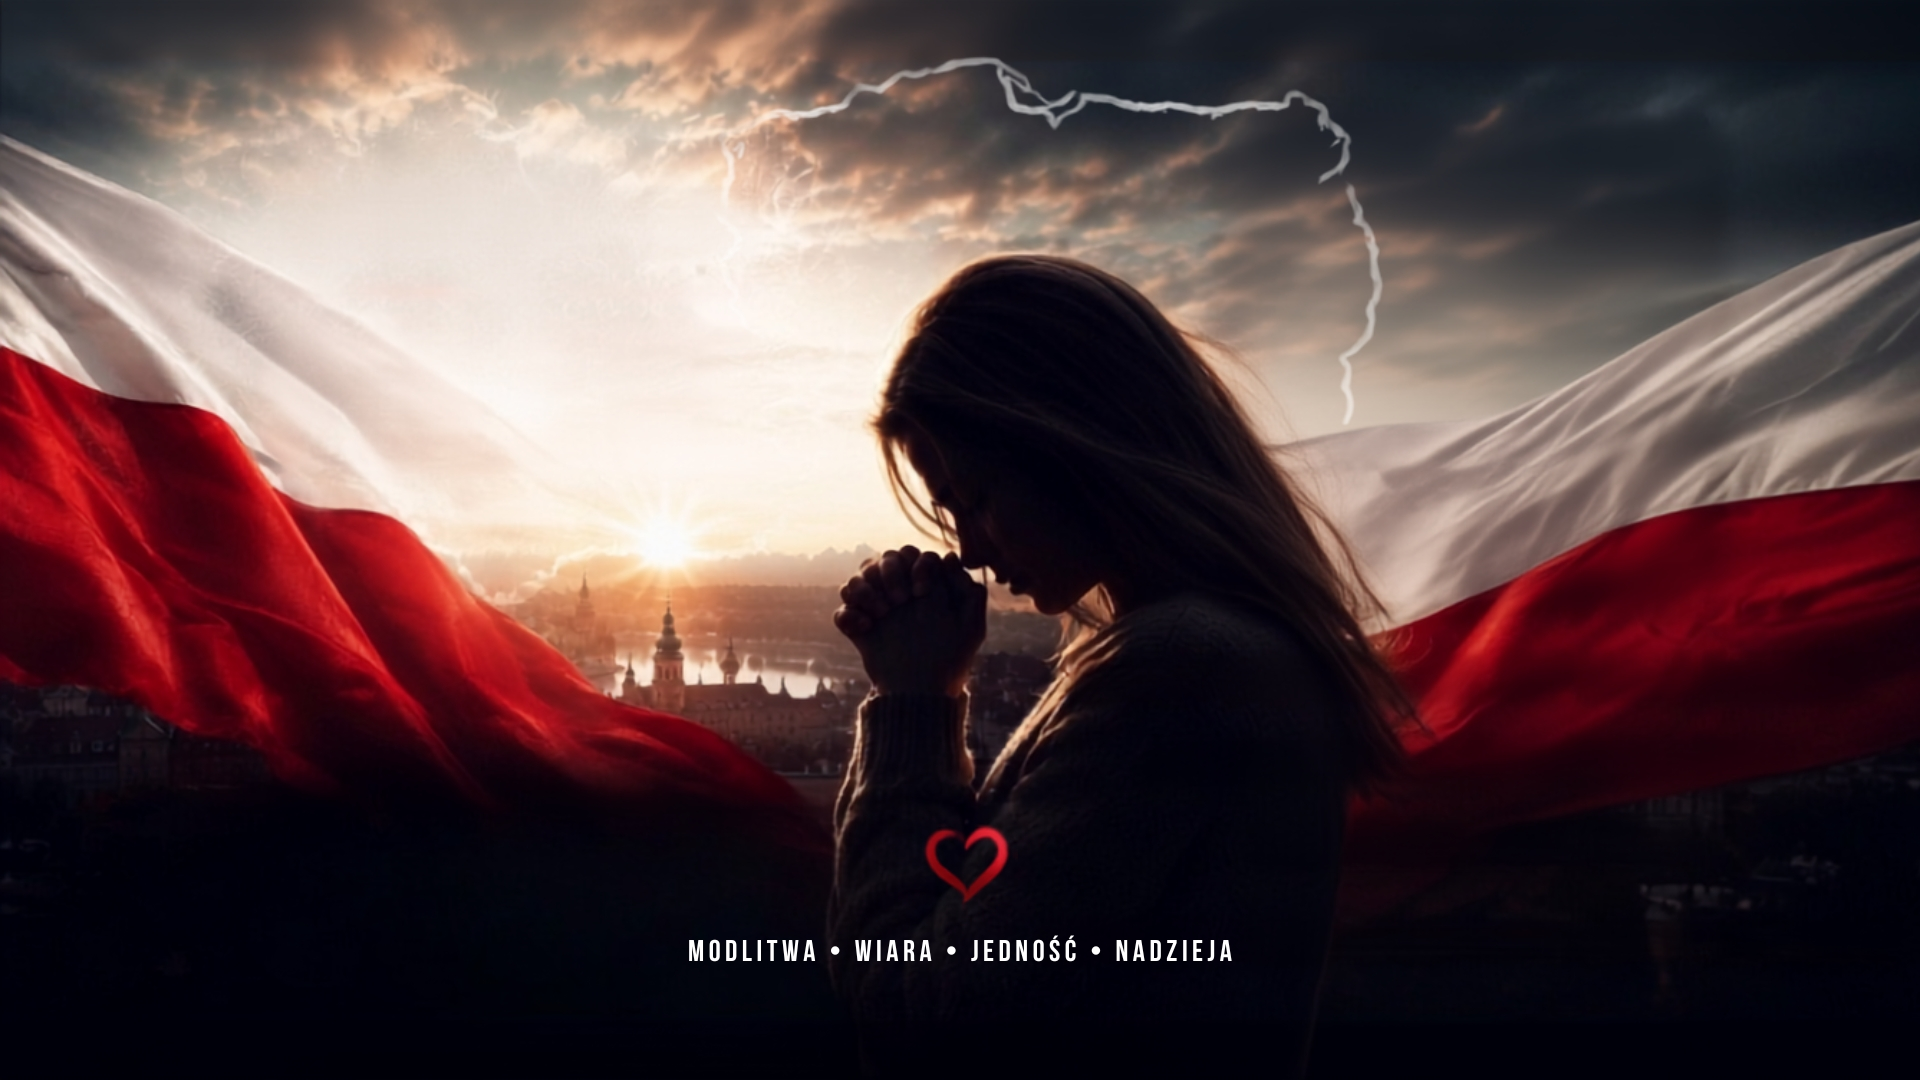
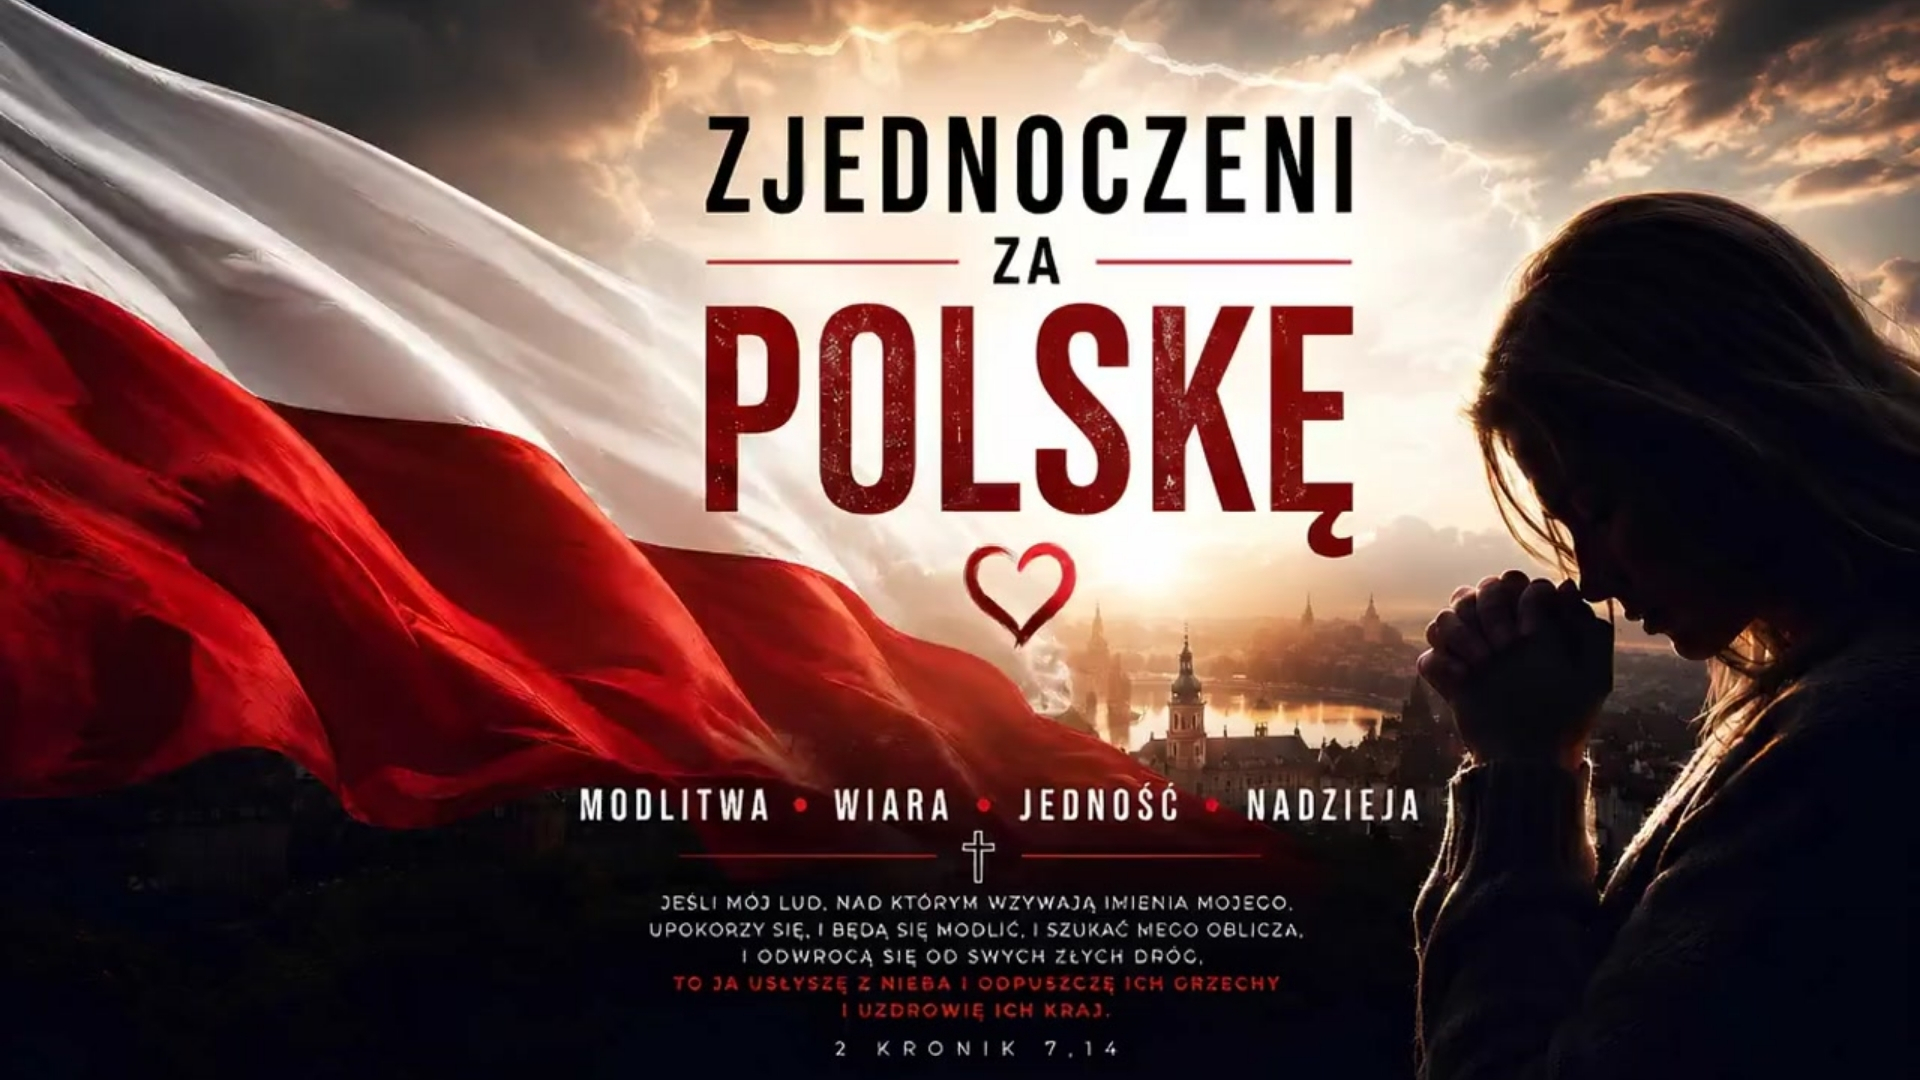
fix(modlitwa): update hero background to Zjednoczeni za Polsce.jpg

diff --git a/modlitwa.html b/modlitwa.html
@@ -447,9 +447,9 @@
         </a>
     </header>
 
-    <!-- Hero Banner with GIF Animation -->
+    <!-- Hero Banner with Background Image -->
     <div class="hero-gif-container">
-        <img class="hero-gif-bg" src="tapeta_modlitwa.gif" alt="Zjednoczeni za Polskę Animacja">
+        <img class="hero-gif-bg" src="tapeta_modlitwa.jpg" alt="Zjednoczeni za Polskę" onerror="this.src='tapeta_modlitwa.gif'">
         <div class="hero-overlay"></div>
         
         <div class="hero-content">
